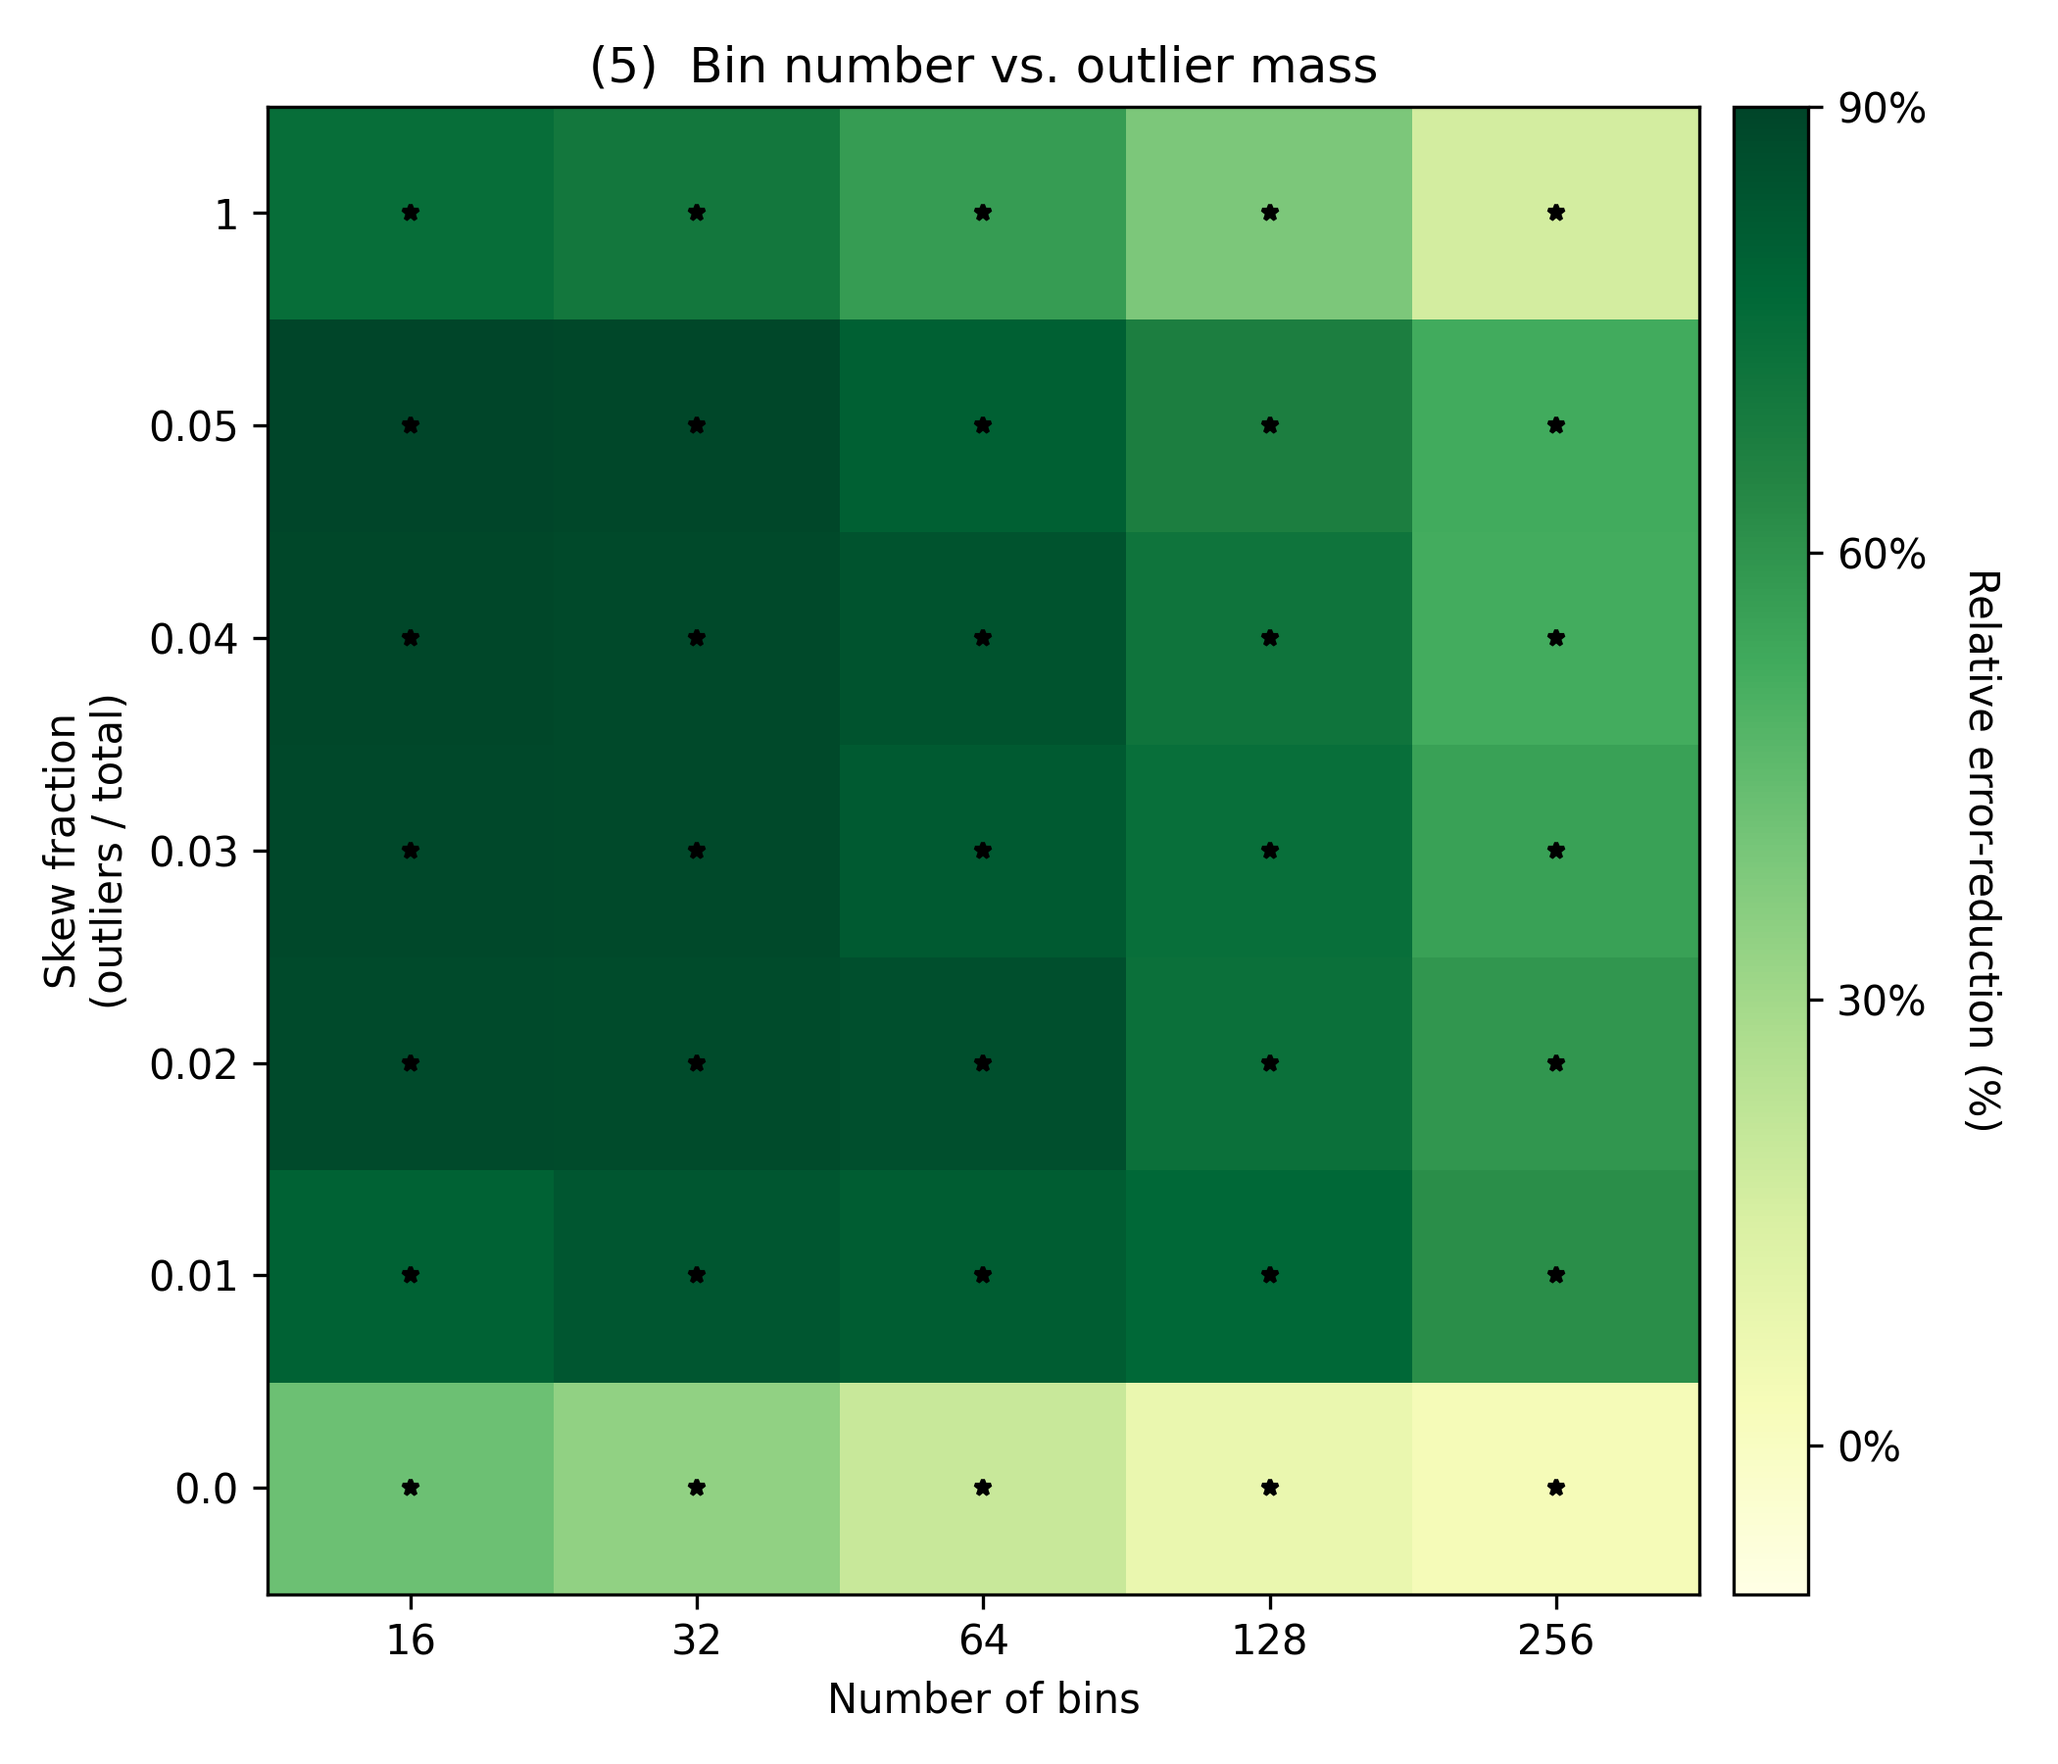
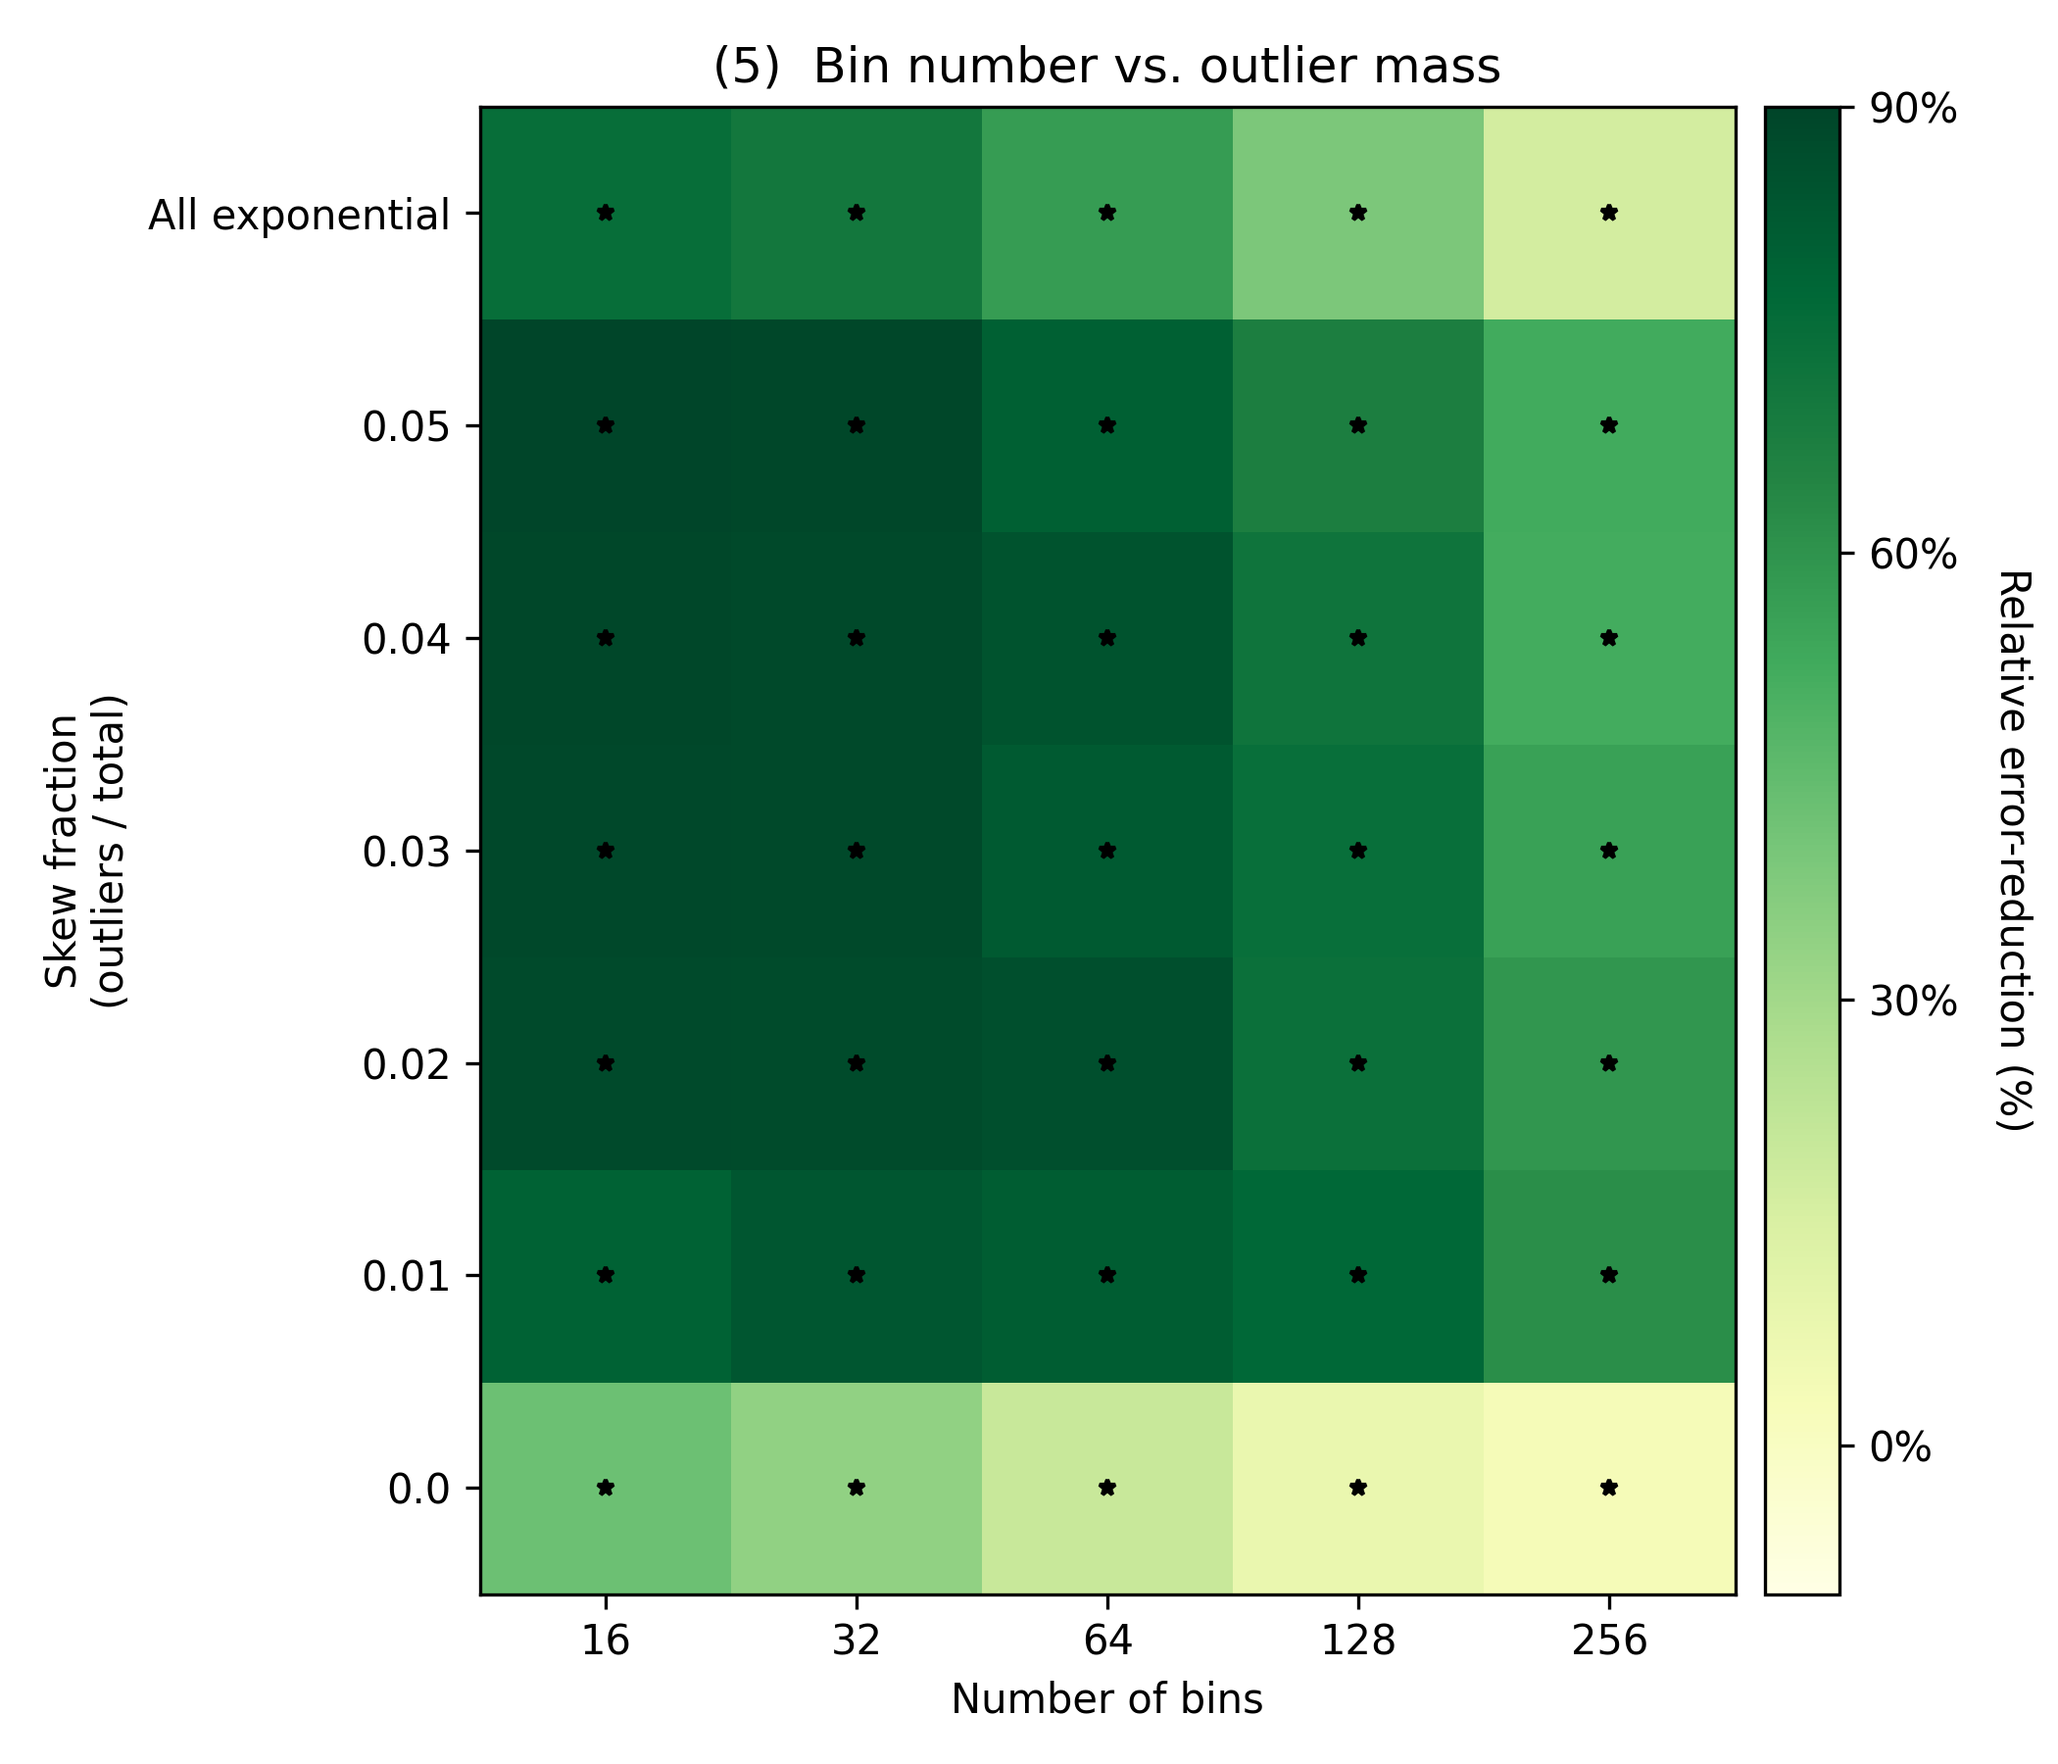
Updated everything for pub

diff --git a/scripts/results_analysis.py b/scripts/results_analysis.py
@@ -14,10 +14,12 @@ def get_cli_args():
     parser = argparse.ArgumentParser(
         description="Analyze experiments")
     parser.add_argument("--num_seeds",   type=int, default=20)
+    parser.add_argument("--std_error",   action='store_true', default=False)
     return parser.parse_args()
 
 args = get_cli_args()
 num_seeds   = args.num_seeds
+std_error   = args.std_error #Whether to include standard error in the results
 
 reg_benchmark_suite = openml.study.get_suite(336)
 class_benchmark_suite = openml.study.get_suite(337) 
@@ -26,7 +28,7 @@ class_benchmark_suite = openml.study.get_suite(337)
 def star_if_sig(best_val, pval_adj_bool):
     formatted = f"{best_val:.3f}"
     if pval_adj_bool:
-        return f"{formatted}$\\mathrlap{{^{{**}}}}$"
+        return f"\\textbf{{{formatted}}}"
     else:
         return formatted
 
@@ -63,6 +65,12 @@ for idx in range(num_datasets_class):
         quantile_mean = np.mean(quantile_results)
         exact_mean = np.mean(exact_results)
         
+        if std_error:
+            kmeans_std = np.std(kmeans_results) / np.sqrt(num_seeds)
+            linspace_std = np.std(linspace_results) / np.sqrt(num_seeds)
+            quantile_std = np.std(quantile_results) / np.sqrt(num_seeds)
+            exact_std = np.std(exact_results) / np.sqrt(num_seeds)
+        
         # Calculating MRR within this dataset -- DO NOT include exact here
         results = {'kmeans': kmeans_results, 'linspace': linspace_results, 'quantile': quantile_results}
         means = {method: np.mean(results[method]) for method in results}
@@ -83,17 +91,34 @@ for idx in range(num_datasets_class):
         
         #Appending p-vals
         p_vals.append(ttest_rel(results[best], results[second]).pvalue)
-        latex_results.append({
-          'name': name, 
-          'dataset_type': 'Classification',
-          'bins': 255,
-          'model': 'SKL',
-          'best': best,
-          'quantile': quantile_mean,
-          'linspace': linspace_mean,
-          'kmeans': kmeans_mean,
-          'exact': exact_mean,  
-        })
+        if std_error:
+            latex_results.append({
+                'name': name, 
+                'dataset_type': 'Classification',
+                'bins': 255,
+                'model': 'SKL',
+                'best': best,
+                'quantile': quantile_mean,
+                'quantile_std': quantile_std,
+                'linspace': linspace_mean,
+                'linspace_std': linspace_std,
+                'kmeans': kmeans_mean,
+                'kmeans_std': kmeans_std,
+                'exact': exact_mean,
+                'exact_std': exact_std,  
+            })
+        else:
+            latex_results.append({
+                'name': name, 
+                'dataset_type': 'Classification',
+                'bins': 255,
+                'model': 'SKL',
+                'best': best,
+                'quantile': quantile_mean,
+                'linspace': linspace_mean,
+                'kmeans': kmeans_mean,
+                'exact': exact_mean,  
+            })
     
 #Dictionary that we put our final rankings in
 mrr_class_avg = {method: np.mean(mrr_class[method]) for method in ['quantile', 'linspace', 'kmeans']}
@@ -148,6 +173,12 @@ for n_bins in [63, 255]:
         quantile_mean = np.mean(quantile_results)
         exact_mean = np.mean(exact_results)
         
+        if std_error:
+            kmeans_std = np.std(kmeans_results) / np.sqrt(num_seeds)
+            linspace_std = np.std(linspace_results) / np.sqrt(num_seeds)
+            quantile_std = np.std(quantile_results) / np.sqrt(num_seeds)
+            exact_std = np.std(exact_results) / np.sqrt(num_seeds)
+        
         # Calculating MRR within this dataset -- DO NOT include exact here
         results = {'kmeans': kmeans_results, 'linspace': linspace_results, 'quantile': quantile_results}
         means = {method: np.mean(results[method]) for method in results}
@@ -168,18 +199,34 @@ for n_bins in [63, 255]:
         
         #Appending p-vals
         p_vals.append(ttest_rel(results[best], results[second]).pvalue)
-        latex_results.append({
-          'name': name, 
-          'dataset_type': 'Regression',
-          'bins': n_bins,
-          'model': 'SKL',
-          'best': best,
-          'quantile': quantile_mean,
-          'linspace': linspace_mean,
-          'kmeans': kmeans_mean,
-          'exact': exact_mean,  
-        })
-    
+        if std_error:
+            latex_results.append({
+                'name': name, 
+                'dataset_type': 'Regression',
+                'bins': n_bins,
+                'model': 'SKL',
+                'best': best,
+                'quantile': quantile_mean,
+                'quantile_std': quantile_std,
+                'linspace': linspace_mean,
+                'linspace_std': linspace_std,
+                'kmeans': kmeans_mean,
+                'kmeans_std': kmeans_std,
+                'exact': exact_mean,
+                'exact_std': exact_std,  
+            })
+        else:
+            latex_results.append({
+            'name': name, 
+            'dataset_type': 'Regression',
+            'bins': n_bins,
+            'model': 'SKL',
+            'best': best,
+            'quantile': quantile_mean,
+            'linspace': linspace_mean,
+            'kmeans': kmeans_mean,
+            'exact': exact_mean,  
+            })
     #Dictionary that we put our final rankings in
     mrr_reg_avg = {method: np.mean(mrr_reg[method]) for method in ['quantile', 'linspace', 'kmeans']}
 
@@ -233,6 +280,12 @@ for idx in [0, 8, 15]:
     quantile_mean = np.mean(quantile_results)
     exact_mean = np.mean(exact_results)
     
+    if std_error:
+        kmeans_std = np.std(kmeans_results) / np.sqrt(num_seeds)
+        linspace_std = np.std(linspace_results) / np.sqrt(num_seeds)
+        quantile_std = np.std(quantile_results) / np.sqrt(num_seeds)
+        exact_std = np.std(exact_results) / np.sqrt(num_seeds)
+    
     results = {'kmeans': kmeans_results, 'linspace': linspace_results, 'quantile': quantile_results}
     means = {method: np.mean(results[method]) for method in results}
     for method in results.keys():
@@ -246,17 +299,34 @@ for idx in [0, 8, 15]:
     
     #Appending p-vals
     p_vals.append(ttest_rel(results[best], results[second]).pvalue)
-    latex_results.append({
-        'name': name, 
-        'dataset_type': 'Regression',
-        'bins': 255,
-        'model': 'XGB',
-        'best': best,
-        'quantile': quantile_mean,
-        'linspace': linspace_mean,
-        'kmeans': kmeans_mean,
-        'exact': exact_mean,  
-    })
+    if std_error:
+        latex_results.append({
+            'name': name, 
+            'dataset_type': 'Regression',
+            'bins': 255,
+            'model': 'XGB',
+            'best': best,
+            'quantile': quantile_mean,
+            'quantile_std': quantile_std,
+            'linspace': linspace_mean,
+            'linspace_std': linspace_std,
+            'kmeans': kmeans_mean,
+            'kmeans_std': kmeans_std,
+            'exact': exact_mean,  
+            'exact_std': exact_std,  
+        })
+    else:
+        latex_results.append({
+            'name': name, 
+            'dataset_type': 'Regression',
+            'bins': 255,
+            'model': 'XGB',
+            'best': best,
+            'quantile': quantile_mean,
+            'linspace': linspace_mean,
+            'kmeans': kmeans_mean,
+            'exact': exact_mean,  
+        })
 
 
 print("INDIVIDUAL TABULAR RESULTS")
@@ -275,22 +345,37 @@ curr_dataset_type = "Classification"
 curr_bins = 255
 curr_model = "SKL"
 print(f"Results for {curr_dataset_type} with {curr_bins} bins and {curr_model} model")
+print("--------------------------------")
+
 for result in latex_results:
     if result['model'] != curr_model or result['bins'] != curr_bins or result['dataset_type'] != curr_dataset_type:
         curr_dataset_type = result['dataset_type']
         curr_bins = result['bins']
         curr_model = result['model']
         print(f"Results for {curr_dataset_type} with {curr_bins} bins and {curr_model} model")
+        print("--------------------------------")
+
     fmt = {} #Holds strings to print
     
     #Formatting assuming classification
     if result['dataset_type'] == 'Classification':
         for m in ['quantile', 'linspace', 'kmeans']:
-            if m == result['best']:                                     # winner – maybe bold
-                fmt[m] = star_if_sig(result[m], result['pval'])
-            else:                                             # plain number
-                fmt[m] = f"{(result[m]):.3f}"
-        fmt['exact'] = f"{result['exact']:.3f}"
+            if std_error:
+                mean_val = result[m]
+                se_val = result[f"{m}_std"]
+                if m == result['best']:
+                    fmt[m] = f"{star_if_sig(mean_val, result['pval'])} ({se_val:.3f})"
+                else:
+                    fmt[m] = f"{mean_val:.3f} ({se_val:.3f})"
+            else:
+                if m == result['best']:
+                    fmt[m] = star_if_sig(result[m], result['pval'])
+                else:
+                    fmt[m] = f"{(result[m]):.3f}"
+        if std_error:
+            fmt['exact'] = f"{result['exact']:.3f} ({result['exact_std']:.3f})"
+        else:
+            fmt['exact'] = f"{result['exact']:.3f}"
         
         print(f"{result['name']} & {fmt['quantile']} & {fmt['linspace']} & {fmt['kmeans']} & {fmt['exact']} \\\\")
     else:
@@ -298,11 +383,22 @@ for result in latex_results:
         exponent = int(np.floor(np.log10(result['quantile'])))
         divisor = 10 ** exponent
         for m in ['quantile', 'linspace', 'kmeans']:
-            if m == result['best']:                                     # winner – maybe bold
-                fmt[m] = star_if_sig(result[m] / divisor, result['pval'])
-            else:                                             # plain number
-                fmt[m] = f"{(result[m] / divisor):.3f}"
-        fmt['exact'] = f"{result['exact'] / divisor:.3f}"
+            if std_error:
+                mean_scaled = result[m] / divisor
+                se_scaled = result[f"{m}_std"] / divisor
+                if m == result['best']:
+                    fmt[m] = f"{star_if_sig(mean_scaled, result['pval'])} ({se_scaled:.3f})"
+                else:
+                    fmt[m] = f"{mean_scaled:.3f} ({se_scaled:.3f})"
+            else:
+                if m == result['best']:
+                    fmt[m] = star_if_sig(result[m] / divisor, result['pval'])
+                else:
+                    fmt[m] = f"{(result[m] / divisor):.3f}"
+        if std_error:
+            fmt['exact'] = f"{result['exact'] / divisor:.3f} ({result['exact_std'] / divisor:.3f})"
+        else:
+            fmt['exact'] = f"{result['exact'] / divisor:.3f}"
         
         print(f"{result['name']} $(10^{{{exponent}}})$ & {fmt['quantile']} & {fmt['linspace']} & {fmt['kmeans']} & {fmt['exact']} \\\\")    
         

diff --git a/scripts/construct_modality_skew_analysis.py b/scripts/construct_modality_skew_analysis.py
@@ -283,7 +283,7 @@ xarr1, yarr1 = [5, 10, 15, 20], [0.0, 0.01, 0.02, 0.03, 0.04, 0.05]
 xarr2, yarr2 = [5, 10, 15, 20], [3, 5, 7, 10]
 xarr3, yarr3 = [5, 10, 15, 20], [0.0, 0.01, 0.02, 0.03, 0.04, 0.05]
 xarr4, yarr4 = [8, 16, 32, 64, 128], [0.0, 0.01, 0.02, 0.03, 0.04, 0.05]
-xarr5, yarr5 = [16, 32, 64, 128, 256], [0.0, 0.01, 0.02, 0.03, 0.04, 0.05, 1]
+xarr5, yarr5 = [16, 32, 64, 128, 256], [0.0, 0.01, 0.02, 0.03, 0.04, 0.05, 'All exponential']
 xarr6, yarr6 = [3, 5, 7, 10], [16, 32, 64, 128, 256]
 
 common_cmap = 'YlGn'

diff --git a/scripts/construct_computation_test.py b/scripts/construct_computation_test.py
@@ -94,4 +94,4 @@ ax.legend(frameon=False, fontsize=7, loc="upper left", bbox_to_anchor=(1.02, 1))
 for spine in ("right", "top"):
     ax.spines[spine].set_visible(False)
 
-plt.savefig("images/FAKE_execution_time.png", bbox_inches="tight")
+plt.savefig("images/execution_time.png", bbox_inches="tight")
